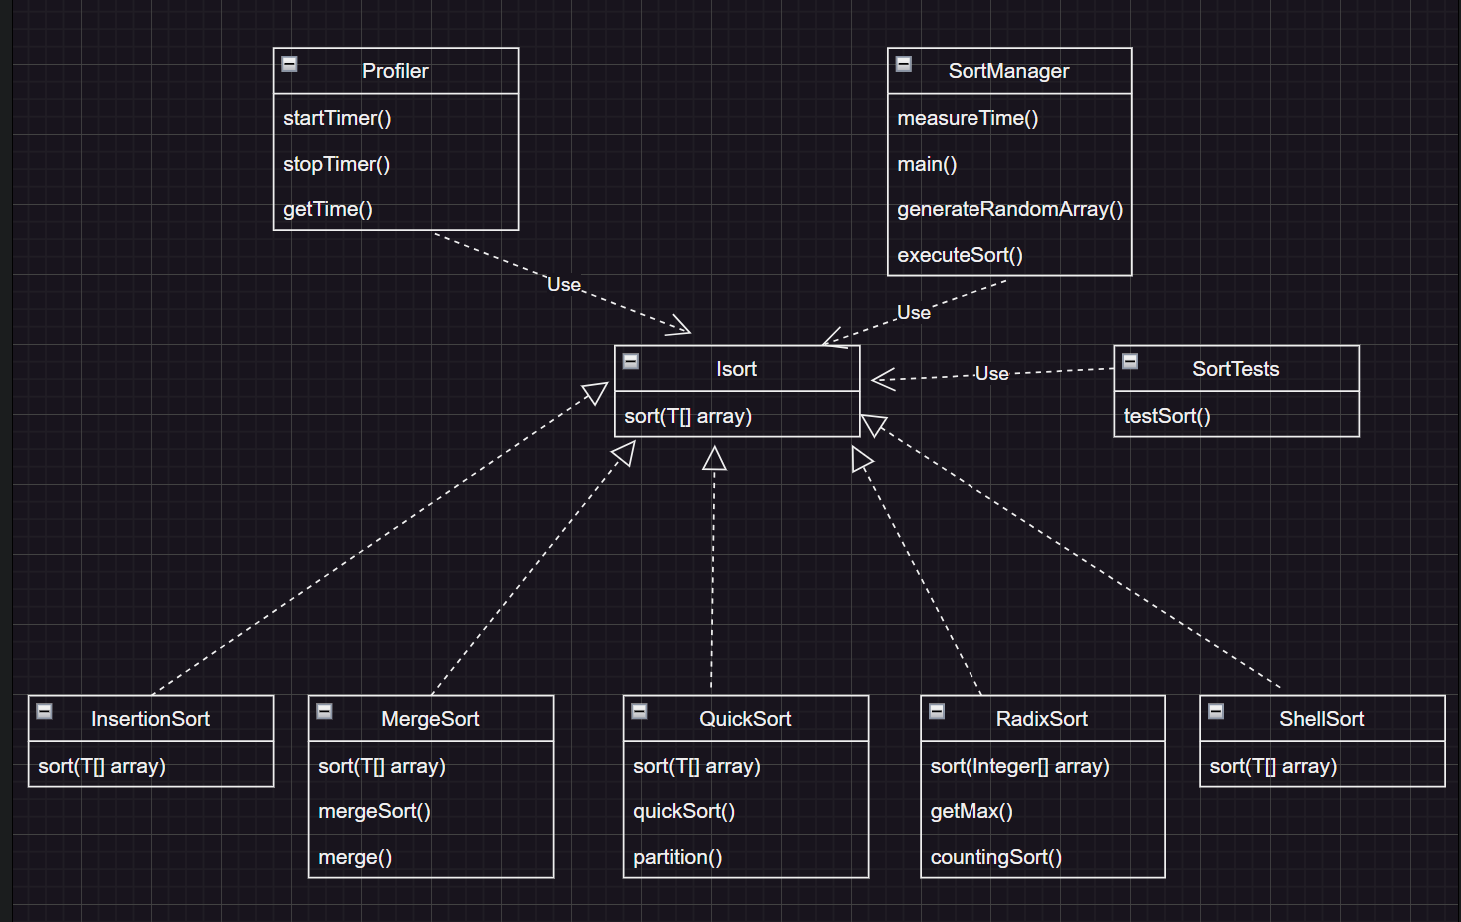
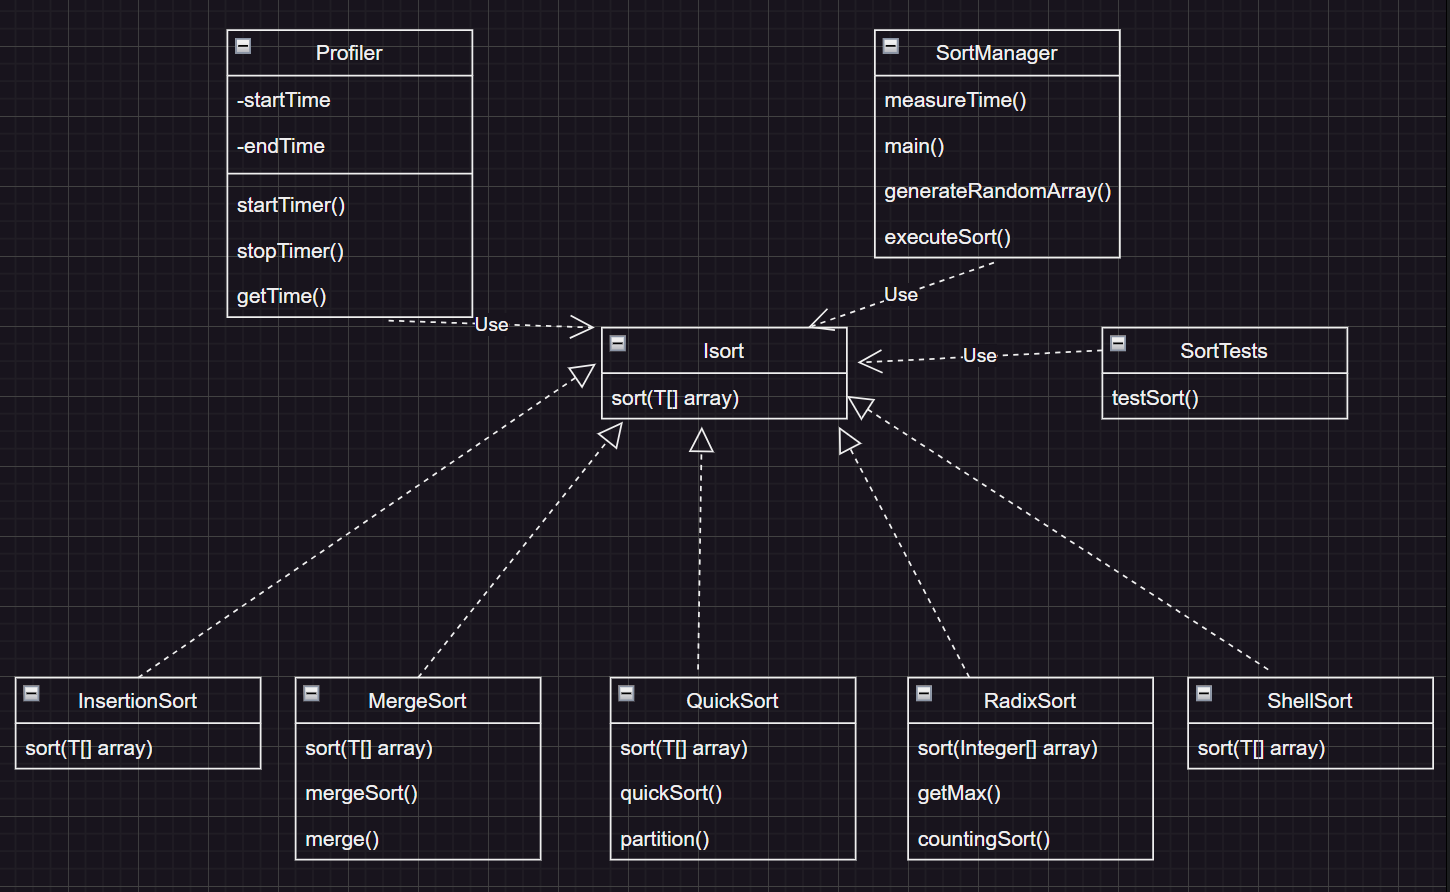
Implementacion de algoritmos de Merge, QuickSort y shellSort, medicion de tiempo con Profiler, Instancias y uso de los algoritmos y modificacion en el UML

diff --git a/MergeSort.java b/MergeSort.java
@@ -1,6 +1,52 @@
 public class MergeSort <T extends Comparable<T>> implements ISort<T> {
     @Override
     public void sort(T[] array){
+        if (array == null || array.length < 2) {
+            return;
+        }
+    }
 
+    private void mergeSort(T[] array, int left, int right) {
+        if (left < right) {
+            int mid = left + (right - left) / 2;
+            mergeSort(array, left, mid);
+            mergeSort(array, mid + 1, right);
+            merge(array, left, mid, right);
+        }
+    }
+
+    private void merge(T[] array, int left, int mid, int right) {
+        int leftSize = mid - left + 1;
+        int rightSize = right - mid;
+
+        T[] leftArray = (T[]) new Comparable[leftSize];
+        T[] rightArray = (T[]) new Comparable[rightSize];
+
+        System.arraycopy(array, left, leftArray, 0, leftSize);
+        System.arraycopy(array, mid + 1, rightArray, 0, rightSize);
+
+        int i = 0, j = 0, k = left;
+        while (i < leftSize && j < rightSize) {
+            if (leftArray[i].compareTo(rightArray[j]) <= 0) {
+                array[k] = leftArray[i];
+                i++;
+            } else {
+                array[k] = rightArray[j];
+                j++;
+            }
+            k++;
+        }
+
+        while (i < leftSize) {
+            array[k] = leftArray[i];
+            i++;
+            k++;
+        }
+
+        while (j < rightSize) {
+            array[k] = rightArray[j];
+            j++;
+            k++;
+        }
     }
 }

diff --git a/SortManager.java b/SortManager.java
@@ -5,6 +5,16 @@ public class SortManager {
         //generar 500 numeros aleatorios entre 1 y 10000
         Integer[] array = generateRandomArray(500,1,10000);
         
+        //crear instanias de los algoritmos de sort
+        ISort<Integer> quickSort = new QuickSort<>();
+        ISort<Integer> mergeSort = new MergeSort<>();
+        ISort<Integer> shellSort = new ShellSort<>();
+
+        Profiler profiler = new Profiler();
+
+        runAndMeasureTime(quickSort, array.clone(), "QuickSort", profiler);
+        runAndMeasureTime(mergeSort, array.clone(), "MergeSort", profiler);
+        runAndMeasureTime(shellSort, array.clone(), "ShellSort", profiler);
     }
     //metodo para generar el array de numeros aleatorios
     public static Integer[] generateRandomArray(int size, int min, int max){
@@ -15,5 +25,10 @@ public class SortManager {
             array[i] = random.nextInt(max - min + 1)+ min;
         }
         return array;
+    }
+
+    private static <T extends Comparable<T>> void runAndMeasureTime(ISort<T> algo, T[] array, String name, Profiler profiler) {
+        double time = profiler.measureTime(algo, array);
+        System.out.println(name + "tarda " + time + " ms");
     }
 }

diff --git a/QuickSort.java b/QuickSort.java
@@ -1,6 +1,34 @@
 public class QuickSort <T extends Comparable<T>> implements ISort<T> {
     @Override
     public void sort(T[] array){
+        quickSort(array, 0, array.length - 1);
+    }
 
-    }  
+    private void quickSort(T[] array, int low, int high) {
+        if (low < high) {
+            int pivotIndex = partition(array, low, high);
+            quickSort(array, low, pivotIndex - 1);
+            quickSort(array, pivotIndex + 1, high);
+        }
+    }
+
+    private int partition(T[] array, int low, int high) {
+        T pivot = array[high]; // Último elemento como pivote
+        int i = low - 1; 
+
+        for (int j = low; j < high; j++) {
+            if (array[j].compareTo(pivot) <= 0) {
+                i++;
+                swap(array, i, j);
+            }
+        }
+        swap(array, i + 1, high);
+        return i + 1;
+    }
+
+    private void swap(T[] array, int i, int j) {
+        T temp = array[i];
+        array[i] = array[j];
+        array[j] = temp;
+    }    
 }

diff --git a/ShellSort.java b/ShellSort.java
@@ -3,6 +3,28 @@ public class ShellSort<T extends Comparable<T>> implements ISort<T> {
     @Override
     public void sort(T[] array){
 
+        int n = array.length;
 
+        //Gaps estilo Knuth
+        int gap = 1;
+        while (gap < n / 3) {
+            gap = 3 * gap + 1;
+        }
+
+        //Sort utilizando los gaps
+        while (gap >= 1) {
+            for (int i = gap; i < n; i++) {
+                T key = array[i];
+                int j = i;
+
+                while (j >= gap && array[j - gap].compareTo(key) > 0) {
+                    array[j] = array[j - gap];
+                    j -= gap;
+                }
+                array[j] = key;
+            }
+
+            gap /= 3;
+        }
     }
 }

diff --git a/Profiler.java b/Profiler.java
@@ -1,3 +1,23 @@
 public class Profiler {
-    
+    private long startTime;
+    private long endTime;
+
+    public void startTime(){
+        startTime = System.currentTimeMillis();
+    }
+
+    public void stopTime(){
+        endTime = System.currentTimeMillis();
+    }
+
+    public double getTime(){
+        return (endTime - startTime);
+    }
+
+    public <T extends Comparable<T>> double measureTime(ISort<T> sort, T[] array) {
+        startTime();
+        sort.sort(array);
+        stopTime();
+        return getTime();
+    }
 }
